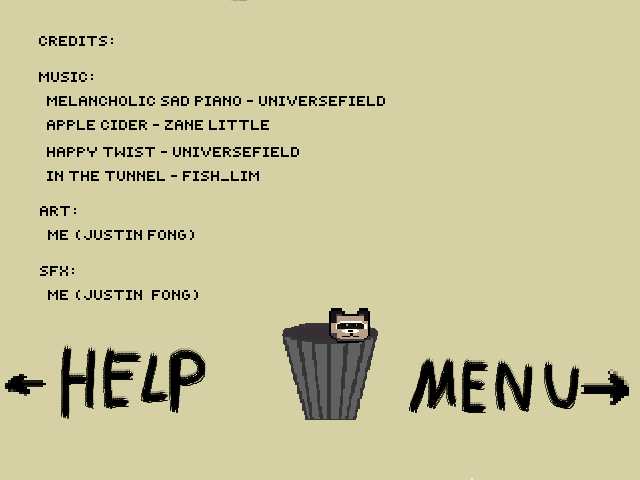
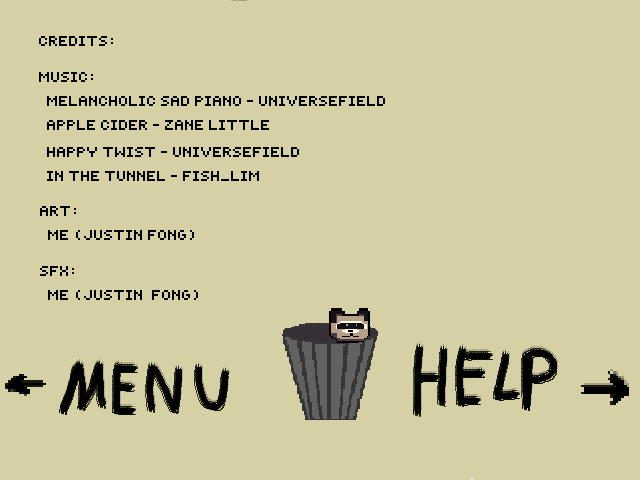
corrected menu images, filled in main.js comment header

Changed region(s): [[0.625, 0.7188, 0.9062, 0.875], [0.0938, 0.7188, 0.375, 0.875]]

diff --git a/src/main.js b/src/main.js
@@ -1,15 +1,46 @@
-// Game Title:
+//
+// Game Title: Raccoon Runna
+//     im so sorry for the lacking title
+//
 // Name: Justin Fong
-// Time Spent:
-
+//
+// Time Spent: 22 hours (approximately)
+//
+//
+//
+//
 // Creative Tilt Justification:
-
-//Credits:
-    //raccoon drawing original: https://www.reddit.com/r/animation/comments/qwbg1h
-        //I only remade and recolored the raccoon for this
-    //music: https://freemusicarchive.org
-        //
-    //sfx: https://sfbgames.itch.io/chiptone
+// 
+// Techincal Aspect:
+//
+//      I guess the only somewhat technically interesting technique I could get implemented was how I did the prefab for the obstacles, rather than having it be individual for the two sprite types, the car and animal control people,
+//      I combined it so it could be used for both, with potential for even more if I had time. Basically when I did the random generation for the sprites I had it go through if statements to see which sprite it would be spawning in, and 
+//      limited them to certain lanes in the game. Unfortunately I was unable to figure out a way to implement some of my ideas that I thought would be actually be technically interesting, my first idea was having a day/night cycle that would trigger 
+//      after checkpoints (i.e Dino Run), and then during the night phase there would be light sources from the obstacle sprites. For example, the car would have a light source from the headlight, and the animal control would have an alternate image with 
+//      a flashlight, which would be the other light source. I tried to de-scope and just go for a sort of game wide tint to simulate day and night, however I couldn't quite get it to work with the time I had left.       
+//
+//  Artistic Aspect:
+//      
+//      Seeing as I couldn't get everything I was going for with the technical aspect, I tried to put a lot more of the remaining time into making the art assets for the game. I have very limited experience with art let alone the pixel art, so 
+//      it did take me longer than I had expected to get some of the assets looking how I wanted. As I meantion below, I used a reference for the running animation of the raccoon, and mostly just recolored it. However, all the other art was fully
+//      just me doing it. I would say I'm most proud of the animal control people, I know the animation ended up a little wonky for this and the others, but for how much experience I had I think it turned out not as bad as I thought it would while 
+//      making it. I did also add game over art that would swap out based on what ended your run of the game, I'm pretty proud of how those ended up looking in the end. 
+// 
+//      Anyways, Thank You for Playing! 🦝
+//
+// Credits:
+//     raccoon drawing original: https://www.reddit.com/r/animation/comments/qwbg1h
+//         just for remaking and recoloring the animated raccoon
+//
+//     music: https://freemusicarchive.org
+//         Melancholic Piano - Universefield
+//         Happy Twist - Universefield
+//         In the Tunnel - Fish_Lim
+//         Apple Cider - Zane Little
+//
+//     sfx: https://sfbgames.itch.io/chiptone
+//         forgot to mention in the credits page but the raccoon sounds were from the google search of raccoons, there are two soundbytes that you can get when you press the button
+//
 
 'use strict'
 

diff --git a/src/scenes/Play.js b/src/scenes/Play.js
@@ -4,7 +4,6 @@ class Play extends Phaser.Scene{
     }
 
     create(){
-
         //add in tilesprite for scrolling background
         this.street = this.add.tileSprite(0,0,this.game.config.width, this.game.config.height, 'street').setOrigin(0).setScrollFactor(1)
 
@@ -46,15 +45,15 @@ class Play extends Phaser.Scene{
         
 
         //up difficulty every 100m
-                this.difficultyTimer = this.time.addEvent({
-                    delay: 10000,
-                    callback: this.difficultyIncrease,
-                    callbackScope: this,
-                    loop: true
-                })
+        this.difficultyTimer = this.time.addEvent({
+            delay: 10000,
+            callback: this.difficultyIncrease,
+            callbackScope: this,
+            loop: true
+        })
                 
         //every 1 second, add to the score
-                this.scoreClock()
+        this.scoreClock()
 
         //draw in the player character and start the running animation
         this.raccoon = new Raccoon(this, this.game.config.width/16, this.game.config.height/2, 'raccoon', 0, 0).setOrigin(0,0).setScale(1.5)
@@ -72,10 +71,6 @@ class Play extends Phaser.Scene{
             runChildUpdate: true
         })
 
-
-        
-
-
         //background music
         let songNum = Phaser.Math.Between(1,2)
 
@@ -86,6 +81,7 @@ class Play extends Phaser.Scene{
             loop: true,
         })
         this.bgm.play()
+
 
     }
 
@@ -113,6 +109,8 @@ class Play extends Phaser.Scene{
                 let carObstacle = new Obstacle(this, this.game.config.width, null, randCar, 0, randLane, speedVarianceCar).setOrigin(0,0).setScale(3)
                 carObstacle.play(randCar + '-drive')
                 this.obstacleGroup.add(carObstacle)
+
+
             }
             else{
                 let animaControlObstacle = new Obstacle(this, this.game.config.width, null, 'animacontrol', 0, randLane, speedVarianceAC).setOrigin(0,0)
